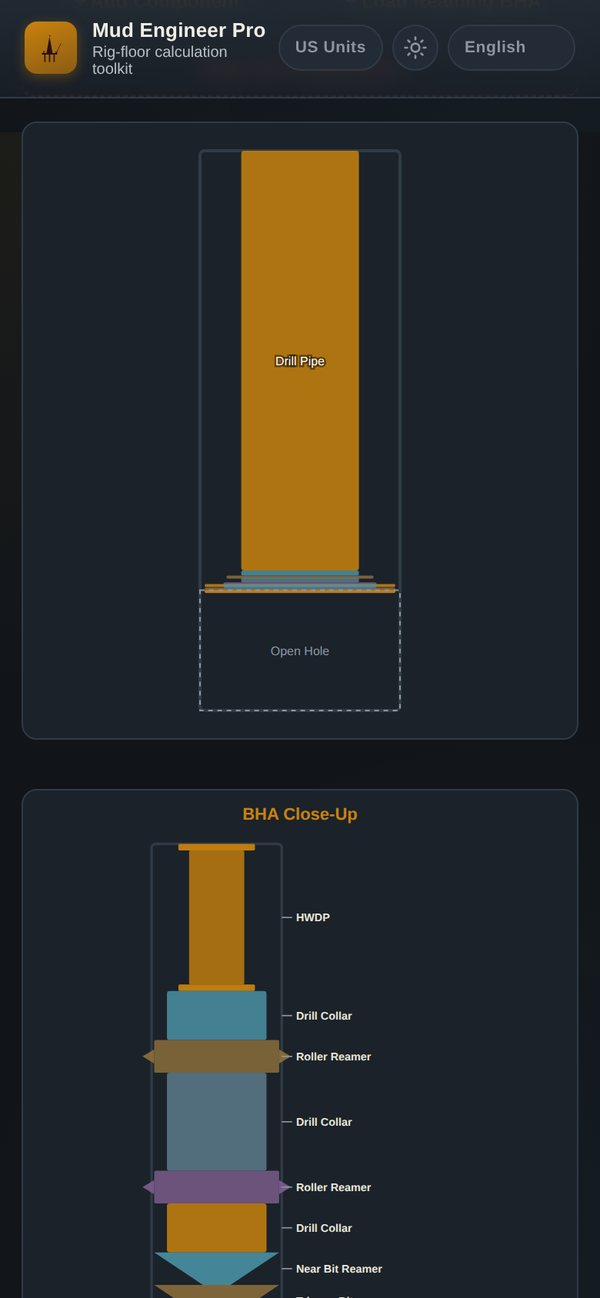
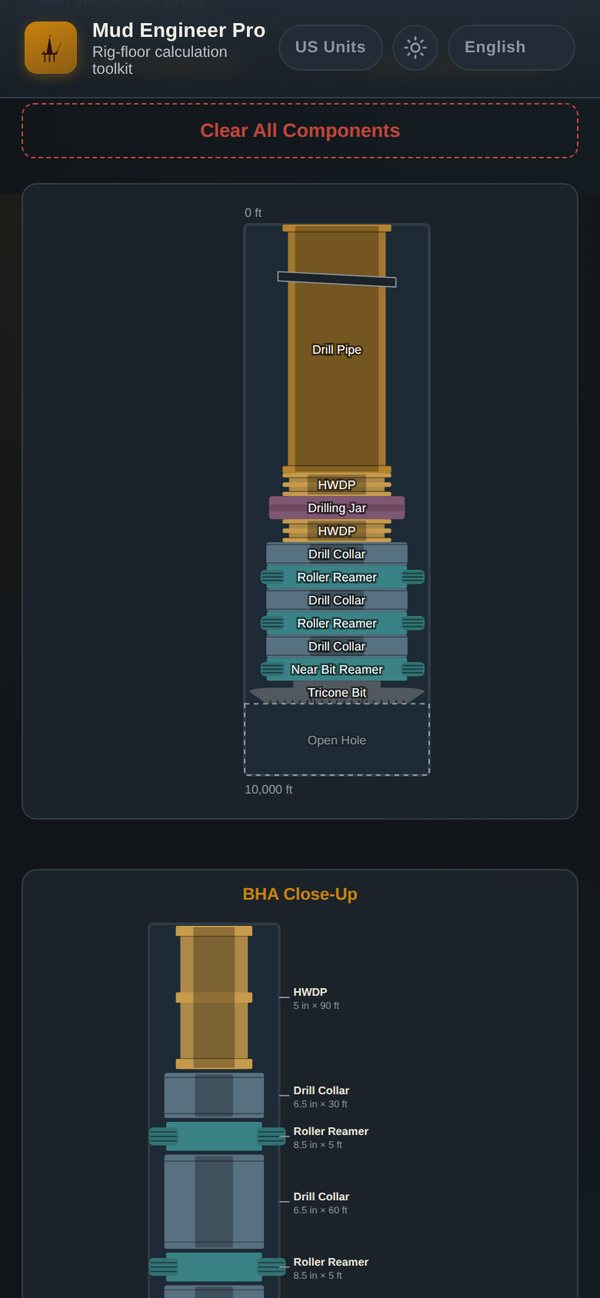
Update landing page

Changed region(s): [[0.03, 0.0924, 0.72, 1.0], [0.96, 0.0924, 0.99, 0.1233], [0.33, 0.5239, 0.36, 0.5547]]

diff --git a/index.html b/index.html
@@ -3,8 +3,8 @@
 <head>
 <meta charset="utf-8">
 <meta name="viewport" content="width=device-width, initial-scale=1">
-<title>Mud Engineer – offline mud calculations for the rig floor | Rig Floor Tech</title>
-<meta name="description" content="Mud Engineer Pro and Lite: 20 offline drilling-fluid calculators in field and metric units, with a 40-page technical reference. Mud Engineer Enterprise for companies: Daily Mud Report, chemical inventory and well recap.">
+<title>Mud Engineer – Offline Mud Calculators | Rig Floor Tech</title>
+<meta name="description" content="20 offline drilling-fluid calculators in field and metric units, plus a 40-page technical reference. Pro and Lite on Google Play. Enterprise for companies.">
 <meta name="theme-color" content="#0d1217">
 <link rel="icon" type="image/png" href="assets/favicon.png">
 <meta property="og:type" content="website">
@@ -13,6 +13,18 @@
 <meta property="og:image" content="https://ahmedfikry17-cell.github.io/mud-engineer-legal/assets/og.jpg">
 <meta property="og:url" content="https://ahmedfikry17-cell.github.io/mud-engineer-legal/">
 <meta name="twitter:card" content="summary_large_image">
+<link rel="canonical" href="https://ahmedfikry17-cell.github.io/mud-engineer-legal/">
+<link rel="apple-touch-icon" href="assets/icon.png">
+<meta name="color-scheme" content="dark">
+<meta property="og:site_name" content="Rig Floor Tech">
+<meta property="og:image:width" content="1200">
+<meta property="og:image:height" content="627">
+<meta property="og:image:alt" content="Mud Engineer Pro and Lite: offline mud calculators">
+<meta name="twitter:title" content="Mud Engineer – mud calculations in your pocket">
+<meta name="twitter:description" content="20 offline drilling-fluid calculators for the rig floor.">
+<meta name="twitter:image" content="https://ahmedfikry17-cell.github.io/mud-engineer-legal/assets/og.jpg">
+
+<script type="application/ld+json">{"@context": "https://schema.org", "@graph": [{"@type": "Organization", "@id": "https://ahmedfikry17-cell.github.io/mud-engineer-legal/#org", "name": "Rig Floor Tech", "url": "https://ahmedfikry17-cell.github.io/mud-engineer-legal/", "logo": "https://ahmedfikry17-cell.github.io/mud-engineer-legal/assets/icon.png", "email": "mudengineerpro.tech@outlook.de"}, {"@type": "MobileApplication", "name": "Mud Engineer Pro", "operatingSystem": "Android", "applicationCategory": "BusinessApplication", "url": "https://play.google.com/store/apps/details?id=com.rigfloortech.mepro", "description": "20 offline drilling-fluid calculators in field and metric units with a 40-page technical reference.", "publisher": {"@id": "https://ahmedfikry17-cell.github.io/mud-engineer-legal/#org"}}, {"@type": "MobileApplication", "name": "Mud Engineer Lite", "operatingSystem": "Android", "applicationCategory": "BusinessApplication", "url": "https://play.google.com/store/apps/details?id=com.rigfloortech.mudengineerlite", "description": "Free version with 3 offline drilling-fluid calculators.", "offers": {"@type": "Offer", "price": "0", "priceCurrency": "EUR"}, "publisher": {"@id": "https://ahmedfikry17-cell.github.io/mud-engineer-legal/#org"}}, {"@type": "FAQPage", "mainEntity": [{"@type": "Question", "name": "Does it work without internet?", "acceptedAnswer": {"@type": "Answer", "text": "Yes. The calculators run on your device and work fully offline. No data leaves your phone."}}, {"@type": "Question", "name": "Is there a subscription?", "acceptedAnswer": {"@type": "Answer", "text": "No. Lite is free with 3 calculators. Pro is a one-time purchase that unlocks all 20 calculators and the technical reference."}}, {"@type": "Question", "name": "Which units and languages are supported?", "acceptedAnswer": {"@type": "Answer", "text": "US field units and Metric, switched with one tap. English, Arabic, Spanish, Portuguese, French, German, Dutch, Norwegian, Danish and Russian."}}, {"@type": "Question", "name": "Is it available on iPhone?", "acceptedAnswer": {"@type": "Answer", "text": "The iOS version is coming soon. For now Mud Engineer Pro and Lite are on Google Play."}}, {"@type": "Question", "name": "Can I rely on the results for critical decisions?", "acceptedAnswer": {"@type": "Answer", "text": "The apps are a calculation aid built on standard published formulas, and every formula is documented in the technical reference. Always cross-check against your company procedures, your drilling program and your mud company's reported values."}}, {"@type": "Question", "name": "How do I get Mud Engineer Enterprise?", "acceptedAnswer": {"@type": "Answer", "text": "Enterprise is a PC application for companies. Contact us for a demo and licensing."}}]}]}</script>
 <script>document.documentElement.classList.add('js')</script>
 <style>
 :root{--bg:#0d1217;--bg2:#121920;--panel:#161d25;--panel2:#1b242d;--line:#27313b;--amber:#cb820c;--amber-hi:#f0a21a;--amber-2:#d9a83c;--cream:#ece8d8;--sub:#c9c8c1;--muted:#8794a0;--ink:#10151a;--ok:#7fd08a;--r:14px}
@@ -31,7 +43,7 @@ header.top .wrap{display:flex;align-items:center;justify-content:space-between;g
 .brand{display:flex;align-items:center;gap:12px;color:var(--cream);text-decoration:none;font-weight:700}
 .brand img{width:38px;height:38px;border-radius:10px;box-shadow:0 0 0 1px rgba(255,255,255,.06),0 6px 18px rgba(203,130,12,.25)}
 nav{display:flex;align-items:center;gap:6px}
-nav a{color:var(--sub);text-decoration:none;padding:8px 12px;font-size:14px;font-weight:700;letter-spacing:.08em;text-transform:uppercase;border-radius:8px}
+nav a{display:inline-flex;align-items:center;min-height:44px;color:var(--sub);text-decoration:none;padding:8px 14px;font-size:14px;font-weight:700;letter-spacing:.08em;text-transform:uppercase;border-radius:8px}
 nav a:hover{color:var(--amber-hi);background:rgba(203,130,12,.08)}
 nav a.pill{background:var(--amber);color:var(--ink);margin-left:8px}
 nav a.pill:hover{background:var(--amber-hi);color:var(--ink)}
@@ -182,7 +194,7 @@ details p{margin:0;padding:0 22px 20px}
 /* ---------- footer + sticky cta ---------- */
 footer{border-top:1px solid var(--line);padding:38px 0 60px;font-size:15px;color:var(--muted)}
 footer .wrap{display:flex;flex-wrap:wrap;justify-content:space-between;gap:16px 40px}
-footer a{margin-right:18px}
+footer a{margin-right:18px;display:inline-block;padding:4px 0}
 .sticky{position:fixed;left:12px;right:12px;bottom:12px;z-index:40;display:none;transform:translateY(140%);transition:transform .3s}
 .sticky.show{transform:none}
 .sticky a{display:flex;justify-content:center;width:100%;box-shadow:0 14px 34px rgba(0,0,0,.55)}
@@ -383,7 +395,7 @@ footer a{margin-right:18px}
 
 <footer><div class="wrap">
   <div><strong style="color:var(--cream)">Rig Floor Tech</strong><br>© 2026 Rig Floor Tech. All rights reserved.<br>Google Play and the Google Play logo are trademarks of Google LLC.</div>
-  <div><a href="privacy_policy.html">Privacy Policy</a><a href="support.html">Support</a><a href="imprint.html">Imprint</a><br><a href="mailto:mudengineerpro.tech@outlook.de" style="margin-top:6px;display:inline-block">mudengineerpro.tech@outlook.de</a></div>
+  <div><a href="privacy_policy.html">Privacy Policy</a><a href="terms_of_use.html">Terms of Use</a><a href="copyright.html">Copyright</a><a href="support.html">Support</a><a href="imprint.html">Imprint</a><br><a href="mailto:mudengineerpro.tech@outlook.de" style="margin-top:6px;display:inline-block">mudengineerpro.tech@outlook.de</a></div>
 </div></footer>
 
 <script>
